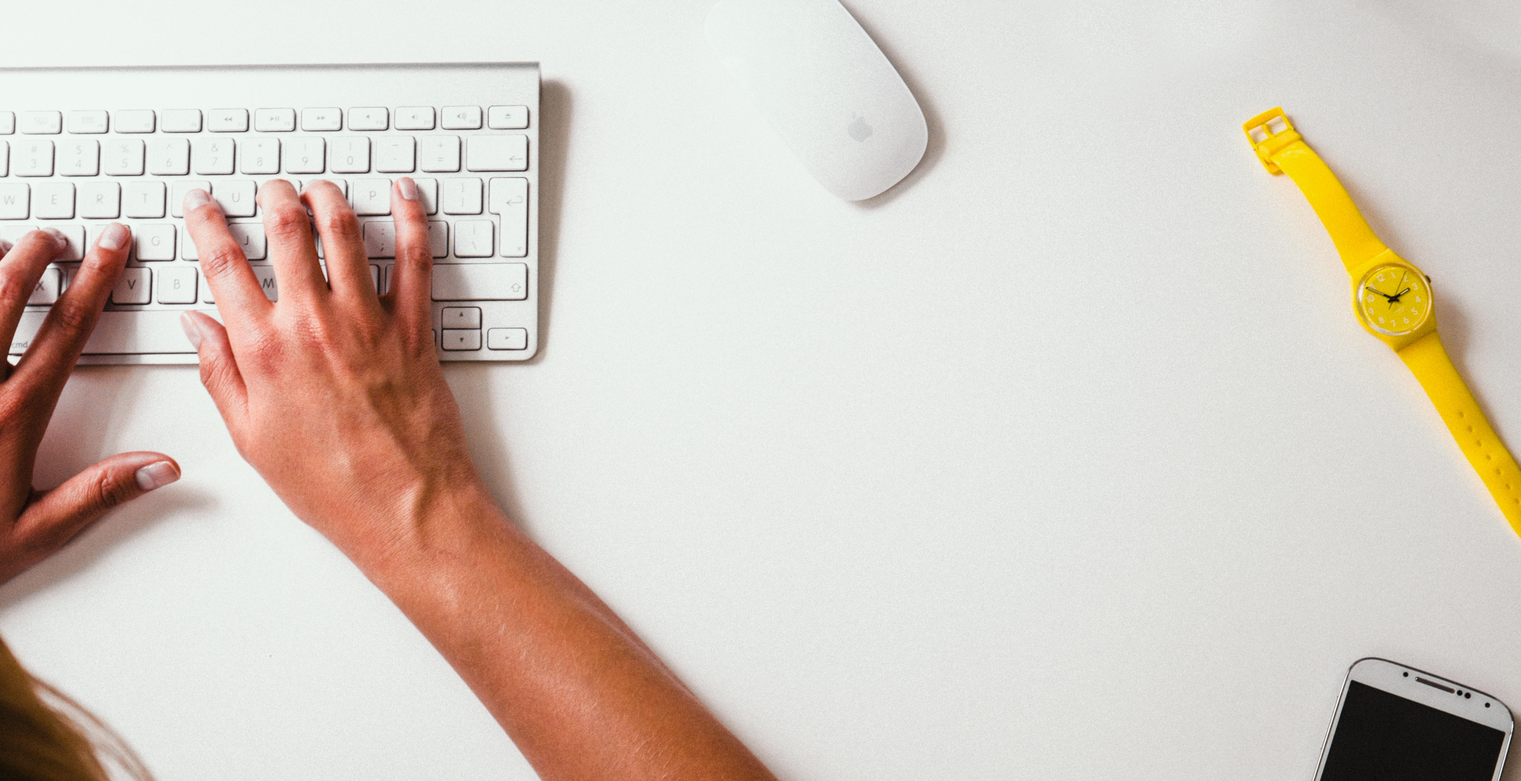
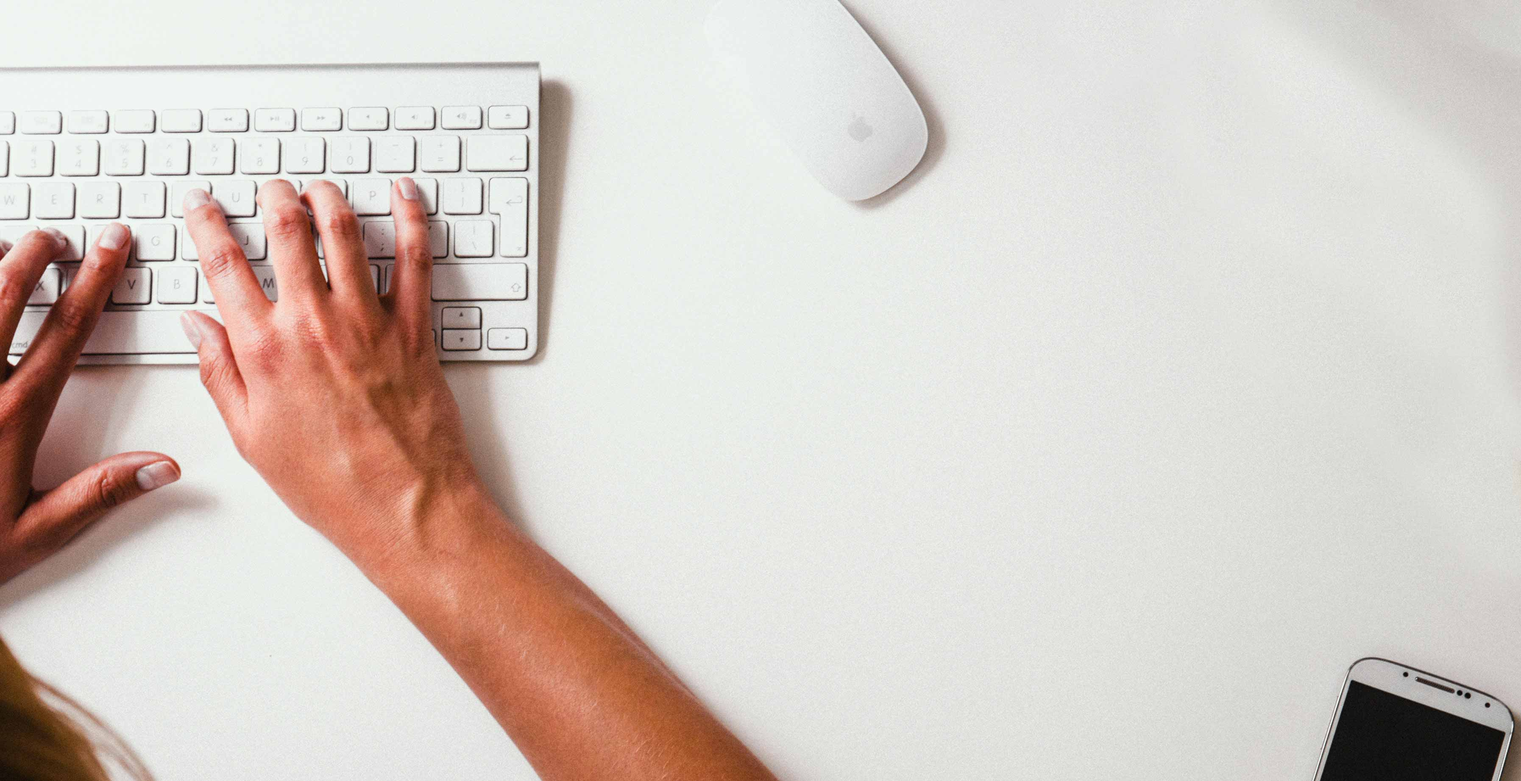
changins PageHeader to show image as background-image than we dont need to print diferents images for each screen, also the images were optmizeds

Changed region(s): [[0.8116, 0.1238, 1.0, 0.7117]]

diff --git a/client/src/components/PageHeader/styles.scss b/client/src/components/PageHeader/styles.scss
@@ -4,15 +4,6 @@
     height: 290px;
     margin-bottom: 40px;
 
-    &__top-image {
-        width: 100%;
-        height: 290px;
-
-        @media #{$BREAKPOINT-TABLET-LAND} {
-            position: absolute;
-        }
-    }
-
     &__text {
         text-align: center;
         position: absolute;
@@ -43,5 +34,29 @@
         margin-top: unset;
         content: '';
         z-index: 1;
+    }
+
+    &__img {
+        width: 100%;
+        height: 100%;
+        background-size: cover;
+        background-repeat: no-repeat;
+        background-position: center;
+    }
+
+    #about-top {
+        background-image: url($ABOUT_US);
+    }
+    #contact-top {
+        background-image: url($CONTACT);
+    }
+    #trucks-top {
+        background-image: url($TRUCKS);
+    }
+    #tracking-top {
+        background-image: url($TRACKING);
+    }
+    #services-top {
+        background-image: url($SERVICES);
     }
 }

diff --git a/client/src/pages/Rastreio/index.js b/client/src/pages/Rastreio/index.js
@@ -3,8 +3,6 @@ import MenuAppBar from '../../components/NavBarMenu'
 import MenuBarMobi from '../../components/NavBarMobi'
 import Footer from '../../components/Footer'
 import PageHeader from '../../components/PageHeader'
-import ratreioMobi from '../../assets/imgs/sala-de-controle.jpg'
-import rastreioDesk from '../../assets/imgs/sala-de-controle-desk.jpg'
 import Media from "react-media"
 
 class Rastreio extends Component {
@@ -17,9 +15,9 @@ class Rastreio extends Component {
       <Media query="(min-width: 975px)">
         {matches =>
           matches ? (
-            <PageHeader img={rastreioDesk} text={"MONITORAMENTO"} />
+            <PageHeader id={"tracking-top"} text={"MONITORAMENTO"} />
           ) : (
-            <PageHeader img={ratreioMobi} text={"RASTREIO"} />
+            <PageHeader id={"tracking-top"} text={"RASTREIO"} />
           )
         }
         </Media>

diff --git a/client/src/pages/Quem-somos/index.js b/client/src/pages/Quem-somos/index.js
@@ -3,8 +3,6 @@ import MenuAppBar from '../../components/NavBarMenu'
 import MenuBarMobi from '../../components/NavBarMobi'
 import Footer from '../../components/Footer'
 import PageHeader from '../../components/PageHeader'
-import teamPicMobi from '../../assets/imgs/working-team-apps.jpg'
-import teamPicDesk from '../../assets/imgs/working-team-apps-desk.jpg'
 import Media from "react-media";
 
 class Rodobravo extends Component {
@@ -17,9 +15,9 @@ class Rodobravo extends Component {
       <Media query="(min-width: 975px)">
         {matches =>
           matches ? (
-            <PageHeader img={teamPicDesk} text={"QUEM SOMOS"} />
+            <PageHeader id={"about-top"} text={"QUEM SOMOS"} />
           ) : (
-            <PageHeader img={teamPicMobi} text={"QUEM SOMOS"} />
+            <PageHeader id={"about-top"} text={"QUEM SOMOS"} />
           )
         }
         </Media>

diff --git a/client/src/pages/Servicos/index.js b/client/src/pages/Servicos/index.js
@@ -3,8 +3,6 @@ import MenuAppBar from '../../components/NavBarMenu'
 import MenuBarMobi from '../../components/NavBarMobi'
 import Footer from '../../components/Footer'
 import PageHeader from '../../components/PageHeader'
-import servicoMobi from '../../assets/imgs/servicos.jpeg'
-import servicoDesk from '../../assets/imgs/servicos-desk.jpg'
 import Media from "react-media"
 
 class Servicos extends Component {
@@ -17,9 +15,9 @@ class Servicos extends Component {
       <Media query="(min-width: 975px)">
         {matches =>
           matches ? (
-            <PageHeader img={servicoDesk} text={"SERVIÇOS"} />
+            <PageHeader id={"services-top"} text={"SERVIÇOS"} />
           ) : (
-            <PageHeader img={servicoMobi} text={"SERVIÇOS"} />
+            <PageHeader id={"services-top"} text={"SERVIÇOS"} />
           )
         }
         </Media>

diff --git a/client/src/pages/Contato/index.js b/client/src/pages/Contato/index.js
@@ -15,8 +15,6 @@ import support from "../../assets/imgs/support.png"
 import antenna from "../../assets/imgs/antenna.png"
 import truck from "../../assets/imgs/delivery-truck.png"
 import PageHeader from '../../components/PageHeader'
-import contatoMobi from '../../assets/imgs/contact.jpg'
-import contatoDesk from '../../assets/imgs/contact-desk.jpg'
 import Media from "react-media"
 
 class Contato extends Component {
@@ -29,9 +27,9 @@ class Contato extends Component {
       <Media query="(min-width: 975px)">
         {matches =>
           matches ? (
-            <PageHeader img={contatoDesk} text={"CONTATO"} />
+            <PageHeader id={"contact-top"} text={"CONTATO"} />
           ) : (
-            <PageHeader img={contatoMobi} text={"CONTATO"} />
+            <PageHeader id={"contact-top"} text={"CONTATO"} />
           )
         }
         </Media>

diff --git a/client/src/pages/Frota/index.js b/client/src/pages/Frota/index.js
@@ -15,8 +15,6 @@ import support from "../../assets/imgs/support.png"
 import antenna from "../../assets/imgs/antenna.png"
 import truck from "../../assets/imgs/delivery-truck.png"
 import PageHeader from '../../components/PageHeader'
-import frotaMobi from '../../assets/imgs/frota.jpeg'
-import frotaDesk from '../../assets/imgs/frota-desk.jpg'
 import Media from "react-media"
 
 class Frota extends Component {
@@ -29,9 +27,9 @@ class Frota extends Component {
       <Media query="(min-width: 975px)">
         {matches =>
           matches ? (
-            <PageHeader img={frotaDesk} text={"FROTA"} />
+            <PageHeader id={"trucks-top"} text={"FROTA"} />
           ) : (
-            <PageHeader img={frotaMobi} text={"FROTA"} />
+            <PageHeader id={"trucks-top"} text={"FROTA"} />
           )
         }
         </Media>

diff --git a/client/src/_conf.scss b/client/src/_conf.scss
@@ -35,4 +35,9 @@ $TEAM_RODOBRAVO  : "../src/assets/imgs/trabalho-em-equipe.jpg";
 $AUTOTRACK  : "../src/assets/imgs/AutotracLogo.png";
 $OMNILINK  : "../src/assets/imgs/omnilink.png";
 $ZATIX : "../src/assets/imgs/zatix.png";
-$SASCAR  : "../src/assets/imgs/sascar.jpg";
+$SASCAR: "../src/assets/imgs/sascar.jpg";
+$ABOUT_US  : "../src/assets/imgs/team-work.jpg";
+$SERVICES  : "../src/assets/imgs/services.jpg";
+$TRACKING  : "../src/assets/imgs/control.jpg";
+$TRUCKS  : "../src/assets/imgs/trucks.jpg";
+$CONTACT  : "../src/assets/imgs/contact.jpg";

diff --git a/client/src/components/PageHeader/index.js b/client/src/components/PageHeader/index.js
@@ -7,7 +7,7 @@ class PageHeader extends Component {
             <section className="pageHeader">
                 <h1 className="pageHeader__text">{this.props.text}</h1>
                 <div className="slide-gradiente"></div>
-                <img className="pageHeader__top-image" src={this.props.img} alt="Rodobravo Transportes" />
+                <div className="pageHeader__img" id={this.props.id}></div>
             </section>
         )
     }
